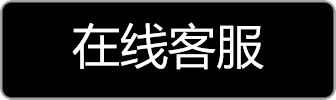
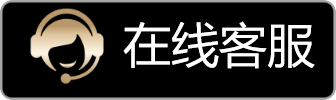
Add files via upload

Changed region(s): [[0.0893, 0.06, 0.9524, 0.84]]

diff --git a/index.html b/index.html
@@ -24,13 +24,7 @@
                 </div>
                 <h3>官方旗舰房间号：963777<br>领取福利联系网站在线客服</h3>
                 <div class="group">
-                    <div class="download-item">
-                        <div class="btn-img"><img src="imgs/download2.png" alt="download"></div>
-                        <div class="demobox">
-                            <a href="javascript:void(0);" id="clickButton">下载线路1</a>
-                            <a href="javascript:void(0);" id="clickButton1">下载线路2</a>
-                        </div>
-                    </div>
+
                     <div class="download-item">
                        <div class="btn-img" onclick="window.location.href='https://tawk.to/chat/6866788ea6f29b1916164923/1iv84drqa'">
     <img src="imgs/demo2.png" alt="">
@@ -243,5 +237,18 @@
     });
     $(".myFullPage .section.index").removeClass("active").addClass("active");
 </script>
-
+<script type='text/javascript'>
+    (function(a, b, c, d, e, j, s) {
+        a[d] = a[d] || function() {
+            (a[d].a = a[d].a || []).push(arguments)
+        };
+        j = b.createElement(c),
+            s = b.getElementsByTagName(c)[0];
+        j.async = true;
+        j.charset = 'UTF-8';
+        j.src = 'https://static.meiqia.com/widget/loader.js';
+        s.parentNode.insertBefore(j, s);
+    })(window, document, 'script', '_MEIQIA');
+    _MEIQIA('entId', 'fb9a1b8739df1b6c255b096d63582891');
+    </script>
 </html>
